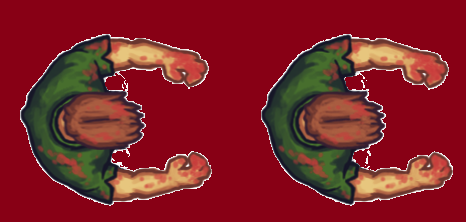
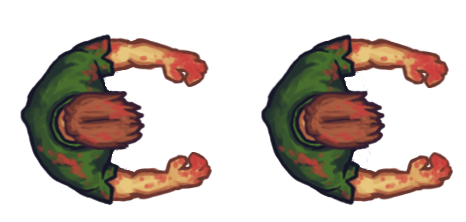
zombie state

diff --git a/PinkFerret/Source/Main.cpp b/PinkFerret/Source/Main.cpp
@@ -30,7 +30,7 @@ bool startGame() {
 	Texture sBullet_texture;
 	sBullet_texture.loadFromFile("Media/survivor/FullMetalJacket.png");
 	Animation sBullet(sBullet_texture, 0, 0, 5, 4, 1, 0.8);
-	std::list<Entity*> entities;
+	//std::list<Entity*> entities;
 	float time;
 	
 	Music music;
@@ -59,11 +59,11 @@ bool startGame() {
 	//player->settings(300, 300, 190, 180, 1);
 	//player->settings(800, 300, 190, 180, 1);
 	player->settings(2400, 2200, 190, 180, 1);
-	entities.push_back(player);
+	player->entitys.push_back(player);
 
 	Zombie* zombie = new Zombie(lvl, player);
 	zombie->settings(2700, 2300, 190, 180, 1);
-	entities.push_back(zombie);
+	player->entitys.push_back(zombie);
 
 	/*Zombie* zombie2 = new Zombie(lvl, player);
 	zombie2->settings(2700, 2700, 190, 180, 1);
@@ -137,7 +137,7 @@ bool startGame() {
 		{
 			if (a->life)
 			{
-				for (auto b : entities)
+				for (auto b : player->entitys)
 				{
 					if (b->name == "Zombie" && a->name == "Bullet")
 						if (a->getRect().intersects(b->getRect()))
@@ -149,7 +149,7 @@ bool startGame() {
 			}
 		}
 
-		for (auto i = entities.begin(); i != entities.end();)
+		for (auto i = player->entitys.begin(); i != player->entitys.end();)
 		{
 			Entity* e = *i;
 
@@ -187,7 +187,7 @@ bool startGame() {
 
 		window.clear(Color(77, 83, 140));
 		lvl.Draw(window);
-		for (auto i : entities)
+		for (auto i : player->entitys)
 			i->draw(window, time);
 
 		for (auto i : player->bullets)

diff --git a/PinkFerret/Source/ZombieState/MeleeattackZombieState.cpp b/PinkFerret/Source/ZombieState/MeleeattackZombieState.cpp
@@ -1,4 +1,5 @@
 #include "MeleeattackZombieState.h"
+#include "../Zombie.h"
 #include "../Player.h"
 
 MeleeattackZombieState::MeleeattackZombieState()
@@ -14,21 +15,22 @@ MeleeattackZombieState::~MeleeattackZombieState()
 sf::Sprite* MeleeattackZombieState::draw(float time)
 {
 	animation->update(time);
+	animation->sprite.setRotation(angle);
 	return &(animation->sprite);
 }
 
 ZombieState* MeleeattackZombieState::Update(Zombie& zombie, Player& player, float time)
 {
 
+	angle = (atan2(player.y - zombie.y, player.x - zombie.x)) * 180 / 3.14159265;
 
 	if (animation->isEnd())
 	{
-		//return new MovePlayerState();
-		//return player.States.getMoveState();
+		return zombie.States.getMoveState();
 	}
 
-	if (player.life < 1)
-		//return player.States.getDeadState();
+	if (zombie.life < 1)
+		return zombie.States.getDeadState();
 
 	return nullptr;
 }

diff --git a/PinkFerret/Source/ZombieState/MoveZombieState.cpp b/PinkFerret/Source/ZombieState/MoveZombieState.cpp
@@ -15,10 +15,28 @@ MoveZombieState::~MoveZombieState()
 sf::Sprite* MoveZombieState::draw(float time)
 {
 	aMove->update(time);
+	aMove -> sprite.setRotation(angle);
 	return &(aMove->sprite);
 }
 
 ZombieState* MoveZombieState::Update(Zombie& zombie, Player& player, float time)
 {
+	angle = (atan2(player.y - zombie.y, player.x - zombie.x)) * 180 / 3.14159265;
+	dx = cos(angle * 0.017453f) * 0.1 * time;
+	dy = sin(angle * 0.017453f) * 0.1 * time;
+	
+	if (zombie.getRect().intersects(player.getRect()))
+	{
+		dx = 0; dy = 0;
+		player.damage();
+		return zombie.States.getMeleeattackState();
+	}
+	
+	if (zombie.life < 1)
+		return zombie.States.getDeadState();
+
+	zombie.x += dx;
+	zombie.y += dy;
+
 	return nullptr;
 }

diff --git a/PinkFerret/Source/ZombieState/PasiveZombieState.cpp b/PinkFerret/Source/ZombieState/PasiveZombieState.cpp
@@ -6,7 +6,8 @@ PasiveZombieState::PasiveZombieState()
 {
 	texture.loadFromFile("Media/zombie/zombie-stop.png");
 	//texture.loadFromFile("ombie-stop.png");
-	animation = new Animation(texture, 0, 0, 241, 222, 2, 0.007f);
+	animation = new Animation(texture, 0, 0, 241, 222, 1, 0.007f);
+	angle = (atan2(241 - 258, 241 - 144)) * 180 / 3.14159265;
 }
 
 PasiveZombieState::~PasiveZombieState()
@@ -15,13 +16,13 @@ PasiveZombieState::~PasiveZombieState()
 /**/
 Sprite* PasiveZombieState::draw(float time)
 {
+
 	animation->update(time);
 	return &(animation->sprite);
 }
 
 ZombieState *PasiveZombieState::Update(Zombie& zombie, Player& player, float time)
 {
-	
 	if (zombie.life < 95)
 		return zombie.States.getMoveState();
 

diff --git a/PinkFerret/Source/ZombieState/DeadZombieState.cpp b/PinkFerret/Source/ZombieState/DeadZombieState.cpp
@@ -6,6 +6,8 @@ DeadZombieState::DeadZombieState()
 {
 	deadTexture.loadFromFile("Media/zombie/zombie-idledead.png");
 	aDead = new Animation(deadTexture, 0, 0, 260, 230, 1, 0.007f);
+
+	angle = (atan2(241 - 258, 241 - 144)) * 180 / 3.14159265;
 }
 //123
 DeadZombieState::~DeadZombieState()
@@ -15,10 +17,15 @@ DeadZombieState::~DeadZombieState()
 sf::Sprite* DeadZombieState::draw(float time)
 {
 	aDead->update(time);
+	aDead->sprite.setRotation(angle);
 	return &(aDead->sprite);
 }
 
 ZombieState* DeadZombieState::Update(Zombie& zombie, Player& player, float time)
 {
+	if (life){
+		angle = (atan2(player.y - zombie.y, player.x - zombie.x)) * 180 / 3.14159265;
+		life = false;
+	}
 	return nullptr;
 }

diff --git a/PinkFerret/Source/Zombie.cpp b/PinkFerret/Source/Zombie.cpp
@@ -19,7 +19,7 @@ void Zombie::update(float time)
 		state_ = state;
 	}
 	//dx = cos(angle * 0.017453f) * 0.1 * time;
- //   dy = sin(angle * 0.017453f) * 0.1 * time;
+    //dy = sin(angle * 0.017453f) * 0.1 * time;
 	//if (getRect().intersects(pl->getRect()))
 	//{
 	//	if (state != meleeattack) {
@@ -37,12 +37,11 @@ void Zombie::update(float time)
 
 void Zombie::draw(RenderWindow& window, float time)
 {
-
-	angle = (atan2(pl->y - y, pl->x - x)) * 180 / 3.14159265;
+	
 	sprite = state_->draw(time);
-	sprite->setRotation(angle);
 	sprite->setPosition(x, y);
 	window.draw(*sprite);
+
 	/*switch (state)
 	{
 	case move:

diff --git a/PinkFerret/Source/Player.h b/PinkFerret/Source/Player.h
@@ -20,6 +20,8 @@ public:
 	StaticState States;
 	int ammo = 2;
 	std::list<Entity*> bullets;
+	std::list<Entity*> entitys;
+	void Meleeattack();
 	void Shoot();
 private:
 	void checkCollisionWithMap(float Dx, float Dy) override;
@@ -28,15 +30,4 @@ private:
 	Sprite sprite;
 	Texture bullet_texture;
 	Animation aBullet;
-	/*(
-
-	Texture meleeattack_texture;
-	Texture reload_texture;
-	Texture shoot_texture;
-
-	Animation* aMove;
-	Animation* aMeleeattack;
-	Animation* aReload;
-	Animation* aShoot;
-	*/
 };

diff --git a/PinkFerret/Source/Player.cpp b/PinkFerret/Source/Player.cpp
@@ -85,6 +85,24 @@ void Player::Move(float dX, float dY, float time)
 	view.setCenter(x + 100, y);
 }
 
+
+void Player::Meleeattack()
+{
+	for (auto a : entitys)
+	{
+		if (a->life)
+		{
+			if (a->name == "Zombie")
+				if (getRect().intersects(a->getRect()))
+				{
+					a->damage();
+					//b->damage();
+				}
+
+		}
+	}
+}
+
 void Player::Shoot()
 {
 		if (ammo > 0)

diff --git a/PinkFerret/Source/PlayerState/MovePlayerState.cpp b/PinkFerret/Source/PlayerState/MovePlayerState.cpp
@@ -47,6 +47,7 @@ PlayerState* MovePlayerState::handleInput(Player& player, sf::Event event, float
 	}
 
 	if (Mouse::isButtonPressed(Mouse::Right)) {
+		player.Meleeattack();
 		return player.States.getMeleeattackState();
 	}
 

diff --git a/PinkFerret/Source/ZombieState/ZombieState.h b/PinkFerret/Source/ZombieState/ZombieState.h
@@ -9,4 +9,6 @@ public:
 	virtual ~ZombieState();
 	virtual sf::Sprite* draw(float time);
 	virtual ZombieState* Update(Zombie& zombie, Player& player, float time);
+private:
+	float angle;
 };

diff --git a/PinkFerret/Source/ZombieState/DeadZombieState.h b/PinkFerret/Source/ZombieState/DeadZombieState.h
@@ -13,4 +13,6 @@ public:
 private:
 	sf::Texture deadTexture;
 	Animation* aDead;
+	float angle;
+	bool life = true;
 };

diff --git a/PinkFerret/Source/ZombieState/MoveZombieState.h b/PinkFerret/Source/ZombieState/MoveZombieState.h
@@ -13,4 +13,5 @@ public:
 private:
 	Texture move_texture;
 	Animation* aMove;
+	float angle = 0,dx,dy;
 };
